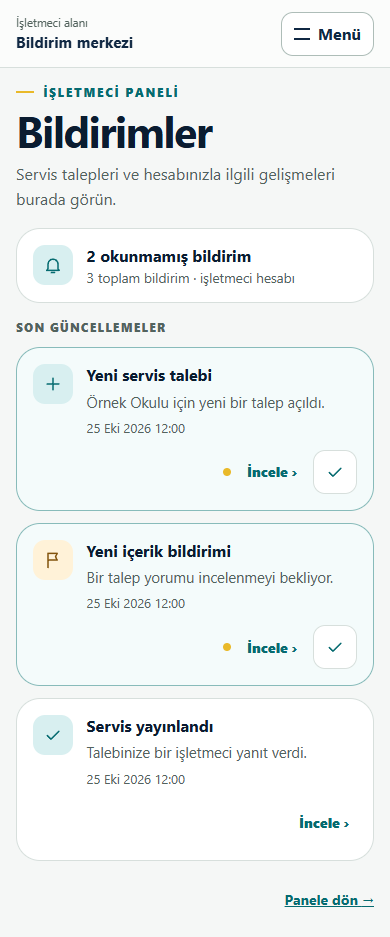
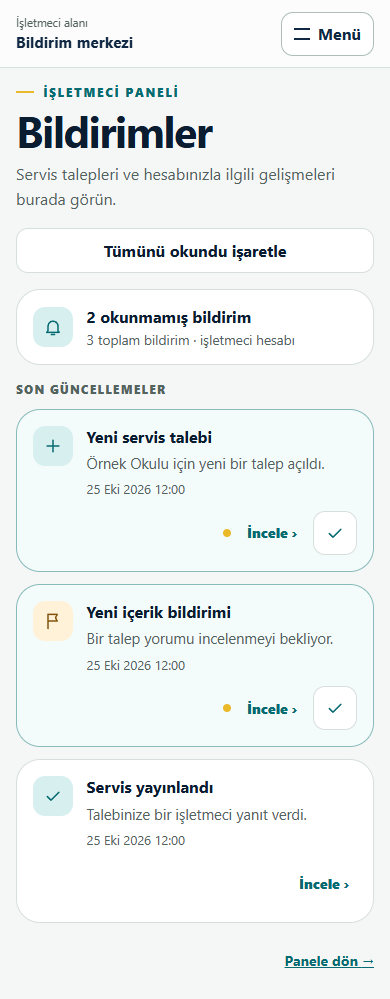
feat(notifications): add mark-all-read for the current recipient
Issue #156 requires read-all, but the API had no such operation. Add a
CSRF-protected, recipient-scoped, idempotent endpoint under D057 and use it
in the notification center.

diff --git a/servisimibul-frontend/src/features/notification/NotificationCenterPage.tsx b/servisimibul-frontend/src/features/notification/NotificationCenterPage.tsx
@@ -1,9 +1,10 @@
-import { useCallback, useEffect, useState } from 'react'
+import { useCallback, useEffect, useRef, useState } from 'react'
 import { Link, useLocation, useNavigate } from 'react-router-dom'
 import { ApiError } from '../../api/client'
 import { StatePanel, StatusBadge } from '../../components/design-system'
 import {
   listNotifications,
+  markAllNotificationsRead,
   markNotificationRead,
   unreadCountChangedEvent,
   unreadNotificationCount,
@@ -93,7 +94,9 @@ export function NotificationCenterPage() {
   const [unreadCount, setUnreadCount] = useState<number>()
   const [openingId, setOpeningId] = useState<string>()
   const [markingId, setMarkingId] = useState<string>()
+  const [markingAll, setMarkingAll] = useState(false)
   const [focusId, setFocusId] = useState<string>()
+  const noticeRef = useRef<HTMLDivElement>(null)
   const [notice, setNotice] = useState<string>()
   const [error, setError] = useState<string>()
   const copy = roleFromPath(location.pathname)
@@ -147,6 +150,10 @@ export function NotificationCenterPage() {
     if (focusId) document.getElementById(`notification-${focusId}`)?.focus()
   }, [focusId])
 
+  useEffect(() => {
+    if (notice && !focusId) noticeRef.current?.focus()
+  }, [focusId, notice])
+
   async function refreshUnreadCount(signal?: AbortSignal) {
     try {
       const response = await unreadNotificationCount(signal)
@@ -158,8 +165,30 @@ export function NotificationCenterPage() {
     }
   }
 
+  async function markAllRead() {
+    setMarkingAll(true)
+    setError(undefined)
+    setNotice(undefined)
+    try {
+      const response = await markAllNotificationsRead()
+      setUnreadCount(response.unreadCount)
+      window.dispatchEvent(new Event(unreadCountChangedEvent))
+      await load()
+      setNotice('Tüm bildirimler okundu olarak işaretlendi.')
+    } catch (failure) {
+      setError(
+        failure instanceof ApiError
+          ? failure.problem.detail
+          : 'Bildirimler işaretlenemedi. Lütfen tekrar deneyin.',
+      )
+    } finally {
+      setMarkingAll(false)
+    }
+  }
+
   async function markRead(notification: NotificationItem) {
     setMarkingId(notification.id)
+    setFocusId(undefined)
     setError(undefined)
     setNotice(undefined)
     try {
@@ -216,10 +245,25 @@ export function NotificationCenterPage() {
         {unreadCount === 0 && !!result?.totalElements && (
           <StatusBadge tone="success">Hepsi okundu</StatusBadge>
         )}
+        {!!unreadCount && (
+          <button
+            className="secondary-button notification-mark-all"
+            disabled={markingAll}
+            onClick={() => void markAllRead()}
+            type="button"
+          >
+            {markingAll ? 'İşaretleniyor…' : 'Tümünü okundu işaretle'}
+          </button>
+        )}
       </div>
 
       {notice && (
-        <div className="status-banner success" role="status">
+        <div
+          className="status-banner success"
+          ref={noticeRef}
+          role="status"
+          tabIndex={-1}
+        >
           {notice}
         </div>
       )}
@@ -314,7 +358,7 @@ export function NotificationCenterPage() {
                         aria-describedby={titleId}
                         aria-label="Okundu olarak işaretle"
                         className="notification-mark"
-                        disabled={markingId === notification.id}
+                        disabled={markingAll || markingId === notification.id}
                         onClick={() => void markRead(notification)}
                         title="Okundu olarak işaretle"
                         type="button"

diff --git a/servisimibul-frontend/src/features/notification/notification-flow.test.tsx b/servisimibul-frontend/src/features/notification/notification-flow.test.tsx
@@ -121,6 +121,105 @@ describe('notification center', () => {
     expect(screen.getByRole('button', { name: 'İncele' })).toHaveFocus()
   })
 
+  it('marks every notification read through the backend', async () => {
+    let unread = 1
+    let calls = 0
+    server.use(
+      csrfHandler(),
+      http.get('/api/v1/notifications', () =>
+        HttpResponse.json(
+          unread
+            ? notificationPage()
+            : {
+                ...notificationPage(),
+                content: [
+                  {
+                    ...notificationPage().content[0],
+                    readAt: '2026-10-25T09:10:00Z',
+                  },
+                ],
+              },
+        ),
+      ),
+      http.get('/api/v1/notifications/unread-count', () =>
+        HttpResponse.json({ unreadCount: unread }),
+      ),
+      http.put('/api/v1/notifications/read-all', () => {
+        calls += 1
+        unread = 0
+        return HttpResponse.json({ unreadCount: 0 })
+      }),
+    )
+    render(
+      <MemoryRouter initialEntries={['/notifications']}>
+        <NotificationNavLink to="/notifications" />
+        <Routes>
+          <Route element={<NotificationCenterPage />} path="/notifications" />
+        </Routes>
+      </MemoryRouter>,
+    )
+
+    fireEvent.click(
+      await screen.findByRole('button', { name: 'Tümünü okundu işaretle' }),
+    )
+
+    const notice = await screen.findByText(
+      'Tüm bildirimler okundu olarak işaretlendi.',
+    )
+    expect(notice).toHaveFocus()
+    expect(calls).toBe(1)
+    expect(screen.getByText('Hepsi okundu')).toBeInTheDocument()
+    expect(screen.queryByText('Yeni')).not.toBeInTheDocument()
+    expect(
+      screen.queryByRole('button', { name: 'Tümünü okundu işaretle' }),
+    ).not.toBeInTheDocument()
+    await waitFor(() =>
+      expect(
+        screen.queryByLabelText('1 okunmamış bildirim'),
+      ).not.toBeInTheDocument(),
+    )
+  })
+
+  it('keeps unread state and explains when read-all fails', async () => {
+    server.use(
+      csrfHandler(),
+      http.get('/api/v1/notifications', () =>
+        HttpResponse.json(notificationPage()),
+      ),
+      http.get('/api/v1/notifications/unread-count', () =>
+        HttpResponse.json({ unreadCount: 1 }),
+      ),
+      http.put('/api/v1/notifications/read-all', () =>
+        HttpResponse.json(
+          { title: 'Error', status: 503, detail: 'Şu anda işaretlenemiyor.' },
+          {
+            status: 503,
+            headers: { 'Content-Type': 'application/problem+json' },
+          },
+        ),
+      ),
+    )
+    render(
+      <MemoryRouter initialEntries={['/notifications']}>
+        <Routes>
+          <Route element={<NotificationCenterPage />} path="/notifications" />
+        </Routes>
+      </MemoryRouter>,
+    )
+
+    fireEvent.click(
+      await screen.findByRole('button', { name: 'Tümünü okundu işaretle' }),
+    )
+
+    expect(await screen.findByRole('alert')).toHaveTextContent(
+      'Şu anda işaretlenemiyor.',
+    )
+    expect(screen.getByText('Yeni')).toBeInTheDocument()
+    expect(
+      screen.getByRole('button', { name: 'Tümünü okundu işaretle' }),
+    ).toBeEnabled()
+  })
+
   it('keeps a notification unread and explains when marking fails', async () => {
     server.use(
       csrfHandler(),

diff --git a/servisimibul-frontend/e2e/ui-fidelity-18-notifications.spec.ts b/servisimibul-frontend/e2e/ui-fidelity-18-notifications.spec.ts
@@ -85,6 +85,36 @@ test('N01 marks every unread item through the real endpoint', async ({
   await capture(page, 'state-N01-all-read', 'mobile')
 })
 
+test('N01 marks all notifications read through the real endpoint', async ({
+  page,
+}) => {
+  await page.setViewportSize({ width: 390, height: 844 })
+  const notifications = feed()
+  await prepare(page, roles[0], notifications)
+  let calls = 0
+  await page.route('**/api/v1/notifications/read-all', async (route) => {
+    expect(route.request().method()).toBe('PUT')
+    calls += 1
+    notifications.forEach((item) => {
+      item.readAt ??= '2026-10-25T09:30:00Z'
+    })
+    await route.fulfill({ json: { unreadCount: 0 } })
+  })
+  await page.goto('/notifications')
+
+  await page.getByRole('button', { name: 'Tümünü okundu işaretle' }).click()
+
+  const notice = page.getByText('Tüm bildirimler okundu olarak işaretlendi.')
+  await expect(notice).toBeFocused()
+  expect(calls).toBe(1)
+  await expect(page.getByText('Hepsi okundu')).toBeVisible()
+  await expect(
+    page.getByRole('button', { name: 'Okundu olarak işaretle' }),
+  ).toHaveCount(0)
+  await expect(page.getByLabel(/okunmamış bildirim/)).toHaveCount(0)
+  await assertAccessibleAndContained(page)
+})
+
 async function prepare(
   page: Page,
   role: (typeof roles)[number],

diff --git a/servisimibul-frontend/src/features/notification/notification-api.ts b/servisimibul-frontend/src/features/notification/notification-api.ts
@@ -59,6 +59,14 @@ export function unreadNotificationCount(signal?: AbortSignal) {
   })
 }
 
+export function markAllNotificationsRead() {
+  return apiRequest('/notifications/read-all', {
+    method: 'PUT',
+    requiresSession: true,
+    schema: unreadCountSchema,
+  })
+}
+
 export function markNotificationRead(id: string) {
   return apiRequest(`/notifications/${id}/read`, {
     method: 'PUT',

diff --git a/servisimibul-frontend/src/features/notification/notification-ui.css b/servisimibul-frontend/src/features/notification/notification-ui.css
@@ -235,6 +235,10 @@
     gap: 1rem;
   }
 
+  .notification-page .notification-mark-all {
+    width: 100%;
+  }
+
   .notification-page .notification-heading {
     align-items: flex-start;
   }

diff --git a/servisimibul-backend/src/test/java/com/servisimibul/backend/notification/NotificationApiTests.java b/servisimibul-backend/src/test/java/com/servisimibul/backend/notification/NotificationApiTests.java
@@ -40,6 +40,9 @@ import static org.springframework.test.web.servlet.result.MockMvcResultMatchers.
 @Transactional
 class NotificationApiTests {
 
+    @Autowired
+    private org.springframework.jdbc.core.JdbcTemplate jdbcTemplate;
+
     @Autowired private MockMvc mockMvc;
     @Autowired private ObjectMapper objectMapper;
     @Autowired private AppUserRepository userRepository;
@@ -92,6 +95,41 @@ class NotificationApiTests {
                 .andExpect(jsonPath("$.unreadCount").value(0));
 
         assertThat(notificationRepository.count()).isEqualTo(2);
+    }
+
+    @Test
+    void readAllMarksOnlyTheCurrentRecipientAndRequiresCsrf() throws Exception {
+        AppUser recipient = parent("read-all-recipient@example.com");
+        AppUser other = parent("read-all-other@example.com");
+        Demand demand = demand(recipient);
+        writeStore.insert(notification(recipient.getId(), demand.getId(), "one"));
+        writeStore.insert(notification(recipient.getId(), demand.getId(), "two"));
+        writeStore.insert(notification(other.getId(), demand.getId(), "other"));
+        jdbcTemplate.update(
+                "update in_app_notification set created_at = now() + interval '1 hour' where recipient_user_id = ?",
+                recipient.getId()
+        );
+
+        mockMvc.perform(put("/api/v1/notifications/read-all").with(csrf()))
+                .andExpect(status().isUnauthorized());
+        mockMvc.perform(put("/api/v1/notifications/read-all").with(as(recipient)))
+                .andExpect(status().isForbidden());
+        mockMvc.perform(get("/api/v1/notifications/unread-count").with(as(recipient)))
+                .andExpect(jsonPath("$.unreadCount").value(2));
+
+        mockMvc.perform(put("/api/v1/notifications/read-all").with(as(recipient)).with(csrf()))
+                .andExpect(status().isOk())
+                .andExpect(jsonPath("$.unreadCount").value(0));
+
+        mockMvc.perform(get("/api/v1/notifications").with(as(recipient)))
+                .andExpect(jsonPath("$.content[0].readAt").isNotEmpty())
+                .andExpect(jsonPath("$.content[1].readAt").isNotEmpty());
+        mockMvc.perform(get("/api/v1/notifications/unread-count").with(as(other)))
+                .andExpect(jsonPath("$.unreadCount").value(1));
+
+        mockMvc.perform(put("/api/v1/notifications/read-all").with(as(recipient)).with(csrf()))
+                .andExpect(status().isOk())
+                .andExpect(jsonPath("$.unreadCount").value(0));
     }
 
     private NotificationWrite notification(UUID recipientId, UUID demandId, String suffix) {

diff --git a/servisimibul-backend/src/main/java/com/servisimibul/backend/notification/InAppNotificationRepository.java b/servisimibul-backend/src/main/java/com/servisimibul/backend/notification/InAppNotificationRepository.java
@@ -37,4 +37,19 @@ public interface InAppNotificationRepository extends JpaRepository<InAppNotifica
             @Param("recipientUserId") UUID recipientUserId,
             @Param("readAt") OffsetDateTime readAt
     );
+
+    @Modifying(flushAutomatically = true, clearAutomatically = true)
+    @Query("""
+            update InAppNotification notification
+            set notification.readAt = case
+                when notification.createdAt > :readAt then notification.createdAt
+                else :readAt
+            end
+            where notification.recipientUserId = :recipientUserId
+              and notification.readAt is null
+            """)
+    int markAllRead(
+            @Param("recipientUserId") UUID recipientUserId,
+            @Param("readAt") OffsetDateTime readAt
+    );
 }

diff --git a/servisimibul-backend/src/main/java/com/servisimibul/backend/notification/NotificationService.java b/servisimibul-backend/src/main/java/com/servisimibul/backend/notification/NotificationService.java
@@ -67,6 +67,12 @@ public class NotificationService {
         return response(notification);
     }
 
+    @Transactional
+    public UnreadCountResponse markAllRead(UUID recipientId) {
+        repository.markAllRead(recipientId, OffsetDateTime.ofInstant(clock.instant(), ZoneOffset.UTC));
+        return unreadCount(recipientId);
+    }
+
     private NotificationResponse response(InAppNotification notification) {
         NotificationCopy copy = copy(notification.getType());
         return new NotificationResponse(

diff --git a/servisimibul-backend/src/main/java/com/servisimibul/backend/notification/NotificationController.java b/servisimibul-backend/src/main/java/com/servisimibul/backend/notification/NotificationController.java
@@ -35,6 +35,11 @@ public class NotificationController {
         return service.unreadCount(currentUser.id());
     }
 
+    @PutMapping("/read-all")
+    public UnreadCountResponse markAllRead() {
+        return service.markAllRead(currentUser.id());
+    }
+
     @PutMapping("/{id}/read")
     public NotificationResponse markRead(@PathVariable UUID id) {
         return service.markRead(id, currentUser.id());

diff --git a/docs/06_PROGRESS.md b/docs/06_PROGRESS.md
@@ -939,10 +939,10 @@ Never mark tasks done because code was generated: verification and review requir
 
 - Branch: `feat/issue-156-notifications`; PR #182; GitHub issues #156 and #123. The shared notification center now follows the approved Manus composition in the parent, operator, and administrator shells: role heading, unread summary, typed notification cards, `İncele`, and per-item mark-as-read.
 - Recipients, ordering, paging, deep links, and polling are unchanged. Marking one notification read uses the existing `PUT /api/v1/notifications/{id}/read` and refreshes the backend unread count in the summary and navigation badge. A failed list load no longer also claims the list is empty.
-- `Tümünü okundu işaretle` and the `Okunmamış`/`Okunmuş` filters are omitted: the API has no read-all endpoint and no read-state filter, and acting on one page would misreport the rest. Issue #156 lists read-all as behavior to preserve, but it does not exist. Adding it needs a separately approved backend change. Parent pages keep the existing public shell instead of the Manus standalone layout.
+- D057 adds `PUT /api/v1/notifications/read-all`, scoped to the current principal with CSRF and no schema change; `Tümünü okundu işaretle` uses it. The `Okunmamış`/`Okunmuş` filters stay omitted because the API has no read-state filter and filtering one page would misreport the rest. Parent pages keep the existing public shell instead of the Manus standalone layout.
 - Before/after desktop and mobile captures for each role and the all-read state are under `docs/screenshots/ui-fidelity-18/`; API responses in them are mocked.
-- Frontend ESLint, strict TypeScript, the Vite production build, Prettier, and `git diff --check` passed. The complete serial Vitest suite passed 183/183, and the complete mocked Chromium suite passed 127/127 without retries, including WCAG 2.2 AA and overflow checks for all three roles at 1440, 768, 390, and 320 pixels.
-- No backend source, API contract, migration, dependency, lockfile, Supabase state, credential, or production configuration changed.
+- Frontend ESLint, strict TypeScript, the Vite production build, Prettier, and `git diff --check` passed. The complete backend suite passed 295/295 on disposable PostgreSQL 17 with JDK 21. The complete serial Vitest suite passed 185/185, and the complete mocked Chromium suite passed 128/128 without retries, including WCAG 2.2 AA and overflow checks for all three roles at 1440, 768, 390, and 320 pixels.
+- Apart from D057, no backend source, API contract, migration, dependency, lockfile, Supabase state, credential, or production configuration changed.
 
 ## Verified AUDIT-F8 inactive demand reopening evidence — 2026-10-31
 

diff --git a/docs/01_DECISIONS.md b/docs/01_DECISIONS.md
@@ -61,6 +61,7 @@ Approval state is important: never turn a proposal into a settled decision witho
 | D054 | Official tariff JSON supports annual amounts and a separate additional-kilometer rule without breaking legacy documents | Existing `amountKurus` remains the monthly fixed-band amount. `annualAmountKurus` is additive and, when present in an extended document, is required for every band. A tariff whose fixed table ends before an official per-kilometer rule stores a closed final band plus `additionalKilometerRule`; legacy unbounded final bands without that object remain readable. `effectiveTo` is nullable when the official source gives no expiration date. Conditions may be retained as bounded explanatory notes, never as personalized price guarantees. Approved through GitHub issue #116 and implementation approval, 2026-10-28. |
 | D055 | A new parent may reopen a `CLOSED(INACTIVE)` demand by adding valid support on the same row | Extends D048's and D051's same-row reopening rule, which previously served only earlier supporters: one parent's withdrawal could otherwise close a route to everyone for the academic year. The new-parent path requires the configured current academic year and an active school. `CLOSED(FULFILLED)`, `CLOSED(ADMIN)`, and `ARCHIVED` never reopen, and duplicate `POST /demands` still adds no support. Reopening appends one `REOPENED` lifecycle event and sends no notification. Other parents' support rows and feedback history are unchanged. A parent joining after an earlier publication receives no feedback opportunity from it, as when joining an already open demand; this is accepted for the pilot. Approved by the owner through GitHub issue #170, 2026-10-31. |
 | D056 | Suspending an operator requires a stored administrator reason | `POST /api/v1/admin/operators/{id}/suspend` requires a non-blank `{reason}`. The reason, administrator, and time are stored as a `SUSPENDED` row in `operator_application_review` by Flyway V17 and returned only through the admin review history. Suspensions made before V17 have no recorded reason and are not backfilled. Approved by the repository owner, 2026-10-31. |
+| D057 | Notification recipients may mark all their notifications read | `PUT /api/v1/notifications/read-all` is scoped to the current principal, requires CSRF, is idempotent, and needs no schema change. Approved by the repository owner, 2026-11-01. |
 
 ## DEFERRED (not current scope)
 - School CSV import, full-catalog ingestion, and automated school synchronization. Revisit only after pilot usage demonstrates a need; approve the source, duplicate rules, preview/commit behavior, and error policy before implementation.

diff --git a/docs/03_SECURITY_AND_API.md b/docs/03_SECURITY_AND_API.md
@@ -101,6 +101,7 @@ Creating a report never changes target visibility or lifecycle. Only an explicit
 
 - `GET /api/v1/notifications` and `GET /api/v1/notifications/unread-count` require an authenticated PARENT, OPERATOR, or ADMIN and return only rows whose `recipient_user_id` is the current principal. Pagination is bounded and newest-first.
 - `PUT /api/v1/notifications/{notificationId}/read` requires the same authenticated ownership plus CSRF. A notification owned by another account is exposed as not found.
+- `PUT /api/v1/notifications/read-all` requires the same authentication plus CSRF, marks every unread notification of the current principal, and returns the resulting `{unreadCount}` (D057).
 - Delivery is part of the originating business transaction and uses a unique deterministic event key with conflict-safe insertion. Repeated demand, publication, lifecycle, or report handling therefore cannot create duplicate recipient/event rows.
 - Notification links are backend-generated local application paths. The frontend validates that every link begins with `/`, polls the unread count only while visible at a bounded interval, and cancels obsolete requests during navigation or unmount.
 
